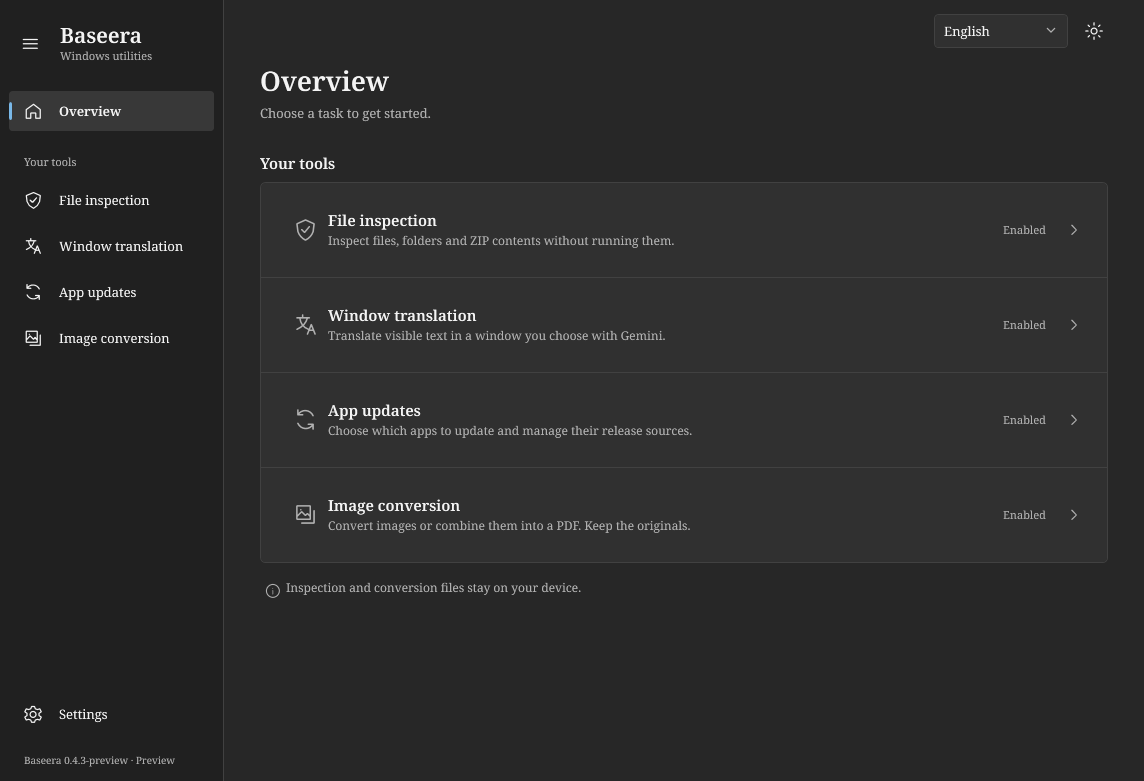
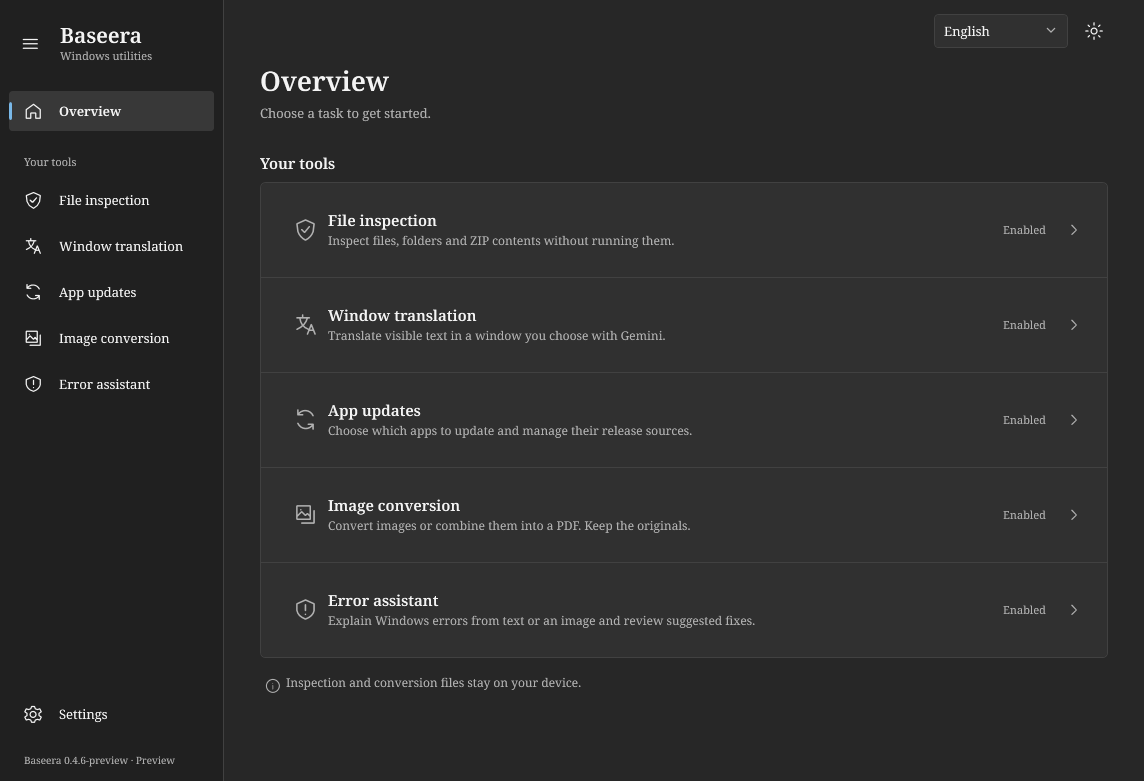
Add error assistant to Your tools

diff --git a/src/Baseera.App/MainWindow.Layout.cs b/src/Baseera.App/MainWindow.Layout.cs
@@ -19,7 +19,7 @@ public sealed partial class MainWindow
     private string providerKeyDraft = "";
     private string? modelDraft;
     private bool Arabic => Settings.Current.Language == "ar";
-    private static readonly string[] Tools = ["scan", "translate", "updates", "convert"];
+    private static readonly string[] Tools = ["scan", "translate", "updates", "convert", "errors"];
     private static Brush Resource(string key) => (Brush)Application.Current.FindResource(key);
     private static StackPanel Stack() => new() { Orientation = Orientation.Vertical };
     private FontWeight HeadingWeight => Arabic ? FontWeights.Medium : FontWeights.SemiBold;
@@ -178,6 +178,7 @@ public sealed partial class MainWindow
         {
             case "scan": ScanPage(body); break; case "translate": TranslationPage(body); break;
             case "updates": UpdatesPage(body); break; case "convert": ConvertPage(body); break;
+            case "errors": ErrorAssistantPage(body); break;
             case "settings": SettingsPage(body); break; default: Home(body); break;
         }
         if (offset > 0) _ = Dispatcher.InvokeAsync(() => scroller.ScrollToVerticalOffset(offset), System.Windows.Threading.DispatcherPriority.Loaded);
@@ -214,7 +215,7 @@ public sealed partial class MainWindow
         System.Windows.Automation.AutomationProperties.SetName(combo, I18n.T("language"));
         combo.SelectionChanged += (_, _) => { if (combo.SelectedIndex < 0) return; Settings.Current.Language = new[] { "ar", "en", "fr", "es" }[combo.SelectedIndex]; Settings.Save(); ApplyTheme(); Render(); }; return combo;
     }
-    private bool IsEnabledFeature(string key) => key switch { "scan" => Settings.Current.ScanEnabled, "translate" => Settings.Current.TranslationEnabled, "updates" => Settings.Current.UpdatesEnabled, "convert" => Settings.Current.ConvertEnabled, _ => true };
+    private bool IsEnabledFeature(string key) => key switch { "scan" => Settings.Current.ScanEnabled, "translate" => Settings.Current.TranslationEnabled, "updates" => Settings.Current.UpdatesEnabled, "convert" => Settings.Current.ConvertEnabled, "errors" => Settings.Current.ErrorAssistantEnabled, _ => true };
     private void SetFeature(string key, bool value)
     {
         switch (key)
@@ -222,6 +223,7 @@ public sealed partial class MainWindow
             case "scan": Settings.Current.ScanEnabled = value; break;
             case "translate": Settings.Current.TranslationEnabled = value; if (!value) overlay?.Close(); break;
             case "updates": Settings.Current.UpdatesEnabled = value; break; case "convert": Settings.Current.ConvertEnabled = value; break;
+            case "errors": Settings.Current.ErrorAssistantEnabled = value; if (!value) errorAssistant?.Close(); break;
         }
         if (!value) { operation?.Cancel(); if (key == "updates") automaticUpdate?.Cancel(); }
         Settings.Save(); ApplyExplorerShortcut();
@@ -246,6 +248,18 @@ public sealed partial class MainWindow
     {
         Heading(body, feature, feature + "Short"); if (IsEnabledFeature(feature)) return true;
         var panel = Stack(); panel.Children.Add(Text(I18n.T("disabledDesc"))); var settings = Action("manageTools", () => Navigate("settings"), true); settings.HorizontalAlignment = HorizontalAlignment.Left; panel.Children.Add(settings); body.Children.Add(Card(panel)); return false;
+    }
+    private void ErrorAssistantPage(StackPanel body)
+    {
+        if (!Guard(body, "errors")) return;
+        var panel = Stack();
+        panel.Children.Add(Text(I18n.T("errorAssistantIntro")));
+        var open = Action("errorsOpen", ShowErrorAssistant, true);
+        open.HorizontalAlignment = HorizontalAlignment.Left;
+        open.Margin = new Thickness(0, 10, 0, 0);
+        panel.Children.Add(open);
+        body.Children.Add(Card(panel));
+        Help(body, "errorPrivacy");
     }
     private void Home(StackPanel body)
     {
@@ -325,6 +339,12 @@ public sealed partial class MainWindow
         if (languages.Template.FindName("PART_Popup", languages) is not System.Windows.Controls.Primitives.Popup { IsOpen: true }) throw new InvalidOperationException("Language menu did not open.");
         languages.IsDropDownOpen = false; languages.SelectedIndex = Arabic ? 1 : 0; UpdateLayout();
         if (shell.FlowDirection != (Arabic ? FlowDirection.RightToLeft : FlowDirection.LeftToRight)) throw new InvalidOperationException("Language direction did not update.");
+        Navigate("home"); UpdateLayout();
+        if (Descendants(frame).OfType<Button>().Count(b => System.Windows.Automation.AutomationProperties.GetName(b) == I18n.T("errors")) != 2)
+            throw new InvalidOperationException("Error assistant is missing from Overview or Your tools navigation.");
+        Navigate("errors"); UpdateLayout();
+        if (!Descendants(frame).OfType<Button>().Any(b => System.Windows.Automation.AutomationProperties.GetName(b) == I18n.T("errorsOpen")))
+            throw new InvalidOperationException("Error assistant page has no open action.");
         Navigate("convert"); UpdateLayout(); if (!Descendants(frame).OfType<ComboBox>().Any(c => c.Items.Contains("PDF"))) throw new InvalidOperationException("Conversion formats unavailable.");
         SystemCommands.MaximizeWindow(this); await Dispatcher.InvokeAsync(() => { }, System.Windows.Threading.DispatcherPriority.ApplicationIdle);
         if (WindowState != WindowState.Maximized) throw new InvalidOperationException("Native maximize failed.");

diff --git a/src/Baseera.App/Services/I18n.cs b/src/Baseera.App/Services/I18n.cs
@@ -107,6 +107,8 @@ public static class I18n
         ["translateShort"] = ["ترجم النص الظاهر في نافذة تختارها باستخدام Gemini.", "Translate visible text in a window you choose with Gemini.", "Traduisez le texte d’une fenêtre choisie avec Gemini.", "Traduce el texto de una ventana elegida con Gemini."],
         ["updatesShort"] = ["اختر التطبيقات التي تريد تحديثها وأدر مصادر إصداراتها.", "Choose which apps to update and manage their release sources.", "Choisissez les applications à mettre à jour et leurs sources.", "Elige las aplicaciones que actualizar y sus fuentes."],
         ["convertShort"] = ["حوّل الصور أو اجمعها في PDF مع الاحتفاظ بالأصول.", "Convert images or combine them into a PDF. Keep the originals.", "Convertissez les images ou assemblez un PDF, sans modifier les originaux.", "Convierte imágenes o crea un PDF conservando los originales."],
+        ["errorsShort"] = ["فسّر أخطاء ويندوز من النص أو الصورة، وراجع خطوات الحل المقترحة.", "Explain Windows errors from text or an image and review suggested fixes.", "Expliquez les erreurs Windows à partir d’un texte ou d’une image et examinez les solutions proposées.", "Explica errores de Windows a partir de texto o imágenes y revisa las soluciones sugeridas."],
+        ["errorsOpen"] = ["فتح مساعد الأخطاء", "Open error assistant", "Ouvrir l’assistant d’erreurs", "Abrir asistente de errores"],
         ["settingsDesc"] = ["إعدادات المظهر والأدوات والتكامل مع ويندوز.", "Manage appearance, tools and Windows integration.", "Gérez l’apparence, les outils et l’intégration Windows.", "Gestiona apariencia, herramientas e integración con Windows."],
         ["appearance"] = ["المظهر واللغة", "Appearance and language", "Apparence et langue", "Apariencia e idioma"],
         ["windowsIntegration"] = ["التكامل مع ويندوز", "Windows integration", "Intégration Windows", "Integración con Windows"],
@@ -135,9 +137,10 @@ public static class I18n
         ["translate"] = ["ترجمة النوافذ", "Window translation", "Traduction des fenêtres", "Traducción de ventanas"],
         ["updates"] = ["تحديث التطبيقات", "App updates", "Mises à jour", "Actualizaciones"],
         ["convert"] = ["تحويل الصور", "Image conversion", "Conversion d’images", "Conversión de imágenes"],
+        ["errors"] = ["مساعد الأخطاء", "Error assistant", "Assistant d’erreurs", "Asistente de errores"],
         ["settings"] = ["الإعدادات", "Settings", "Paramètres", "Configuración"],
         ["welcome"] = ["مساحتك. على طريقتك.", "Your workspace. Your way.", "Votre espace. À votre façon.", "Tu espacio. A tu manera."],
-        ["intro"] = ["أربع أدوات، وتجربة واحدة هادئة. اختر ما تحتاجه فقط.", "Four tools, one quiet workspace. Choose only what you need.", "Quatre outils, un espace serein. Choisissez ce qui vous convient.", "Cuatro herramientas, un espacio tranquilo. Elige lo que necesitas."],
+        ["intro"] = ["خمس أدوات، وتجربة واحدة هادئة. اختر ما تحتاجه فقط.", "Five tools, one quiet workspace. Choose only what you need.", "Cinq outils, un espace serein. Choisissez ce qui vous convient.", "Cinco herramientas, un espacio tranquilo. Elige lo que necesitas."],
         ["setup"] = ["لنبدأ بما يناسبك", "Make yourself at home", "Installez-vous", "Hazlo tuyo"],
         ["setupDesc"] = ["فعّل أدواتك المفضلة. يمكنك تغيير كل اختيار لاحقًا.", "Enable your tools. Every choice can be changed later.", "Activez vos outils. Vous pourrez tout modifier ensuite.", "Activa tus herramientas. Puedes cambiarlo después."],
         ["scanDesc"] = ["يفحص محتويات ZIP والسكربتات وبنية الملفات التنفيذية محليًا، ويعرض أدلة الاشتباه وحدود الفحص.", "Inspect ZIP contents, scripts and executable structure locally, with evidence and coverage limits.", "Analyse locale des ZIP, scripts et exécutables, avec indices et limites de couverture.", "Analiza ZIP, scripts y ejecutables localmente, con indicios y límites de cobertura."],

diff --git a/src/Baseera.App/App.xaml.cs b/src/Baseera.App/App.xaml.cs
@@ -50,10 +50,10 @@ public partial class App : Application
                     SaveView("setup-" + language);
                 }
                 Settings.Current.Onboarded = true; Settings.Current.ScanEnabled = true; Settings.Current.TranslationEnabled = true;
-                Settings.Current.UpdatesEnabled = true; Settings.Current.ConvertEnabled = true;
+                Settings.Current.UpdatesEnabled = true; Settings.Current.ConvertEnabled = true; Settings.Current.ErrorAssistantEnabled = true;
                 foreach (string language in new[] { "en", "ar" })
                 foreach (bool dark in new[] { false, true })
-                foreach (string page in new[] { "home", "scan", "translate", "updates", "convert", "settings" })
+                foreach (string page in new[] { "home", "scan", "translate", "updates", "convert", "errors", "settings" })
                 {
                     Settings.Current.Language = language; Settings.Current.Dark = dark; window.ApplyTheme();
                     window.Navigate(page); await Dispatcher.InvokeAsync(() => { }, System.Windows.Threading.DispatcherPriority.ApplicationIdle);

diff --git a/src/Baseera.App/MainWindow.cs b/src/Baseera.App/MainWindow.cs
@@ -58,7 +58,7 @@ public sealed partial class MainWindow : Window
                     catch (Exception ex) { SetOperationStatus("selfFailed", ex.Message); }
                 }
                 ShowStartupWelcome();
-                if (launchErrorAssistant) ShowErrorAssistant();
+                if (launchErrorAssistant && Settings.Current.ErrorAssistantEnabled) ShowErrorAssistant();
                 await CheckSelfUpdate();
                 if (!Settings.Current.Onboarded) return;
                 if (Settings.Current.ScanEnabled && Settings.Current.ScanAtStartup && (File.Exists(Settings.Current.ScanPath) || Directory.Exists(Settings.Current.ScanPath)))
@@ -69,6 +69,7 @@ public sealed partial class MainWindow : Window
     }
     private void ShowErrorAssistant()
     {
+        if (!Settings.Current.ErrorAssistantEnabled) return;
         if (errorAssistant?.IsVisible == true) { errorAssistant.Activate(); return; }
         errorAssistant = new ErrorAssistantWindow(this);
         try { errorAssistant.ShowDialog(); }

diff --git a/src/Baseera.App/Icons.cs b/src/Baseera.App/Icons.cs
@@ -22,6 +22,7 @@ public static class Icons
         ["translate"] = "M3,5 L16,5 M9,2 L9,5 M6,5 Q7,14 15,17 M14,5 Q12,13 3,17 M14,22 L18,12 L22,22 M15.5,18 L20.5,18",
         ["updates"] = "M20,8 A9,9 0 0 0 4,7 M4,2 L4,7 L9,7 M4,16 A9,9 0 0 0 20,17 M15,17 L20,17 L20,22",
         ["convert"] = "M3,3 L17,3 L17,17 L3,17 Z M3,14 L8,9 L12,13 L14,11 L17,14 M7,7 L7.1,7 M8,21 L21,21 L21,8",
+        ["errors"] = "M12,2 L21,6 L21,13 Q20,19 12,22 Q4,19 3,13 L3,6 Z M12,7 L12,13 M12,17 L12,17.1",
         ["settings"] = "M10,2 L14,2 L15,5 L18,6 L21,5 L23,9 L20,11 L20,14 L23,16 L21,20 L18,19 L15,20 L14,23 L10,23 L9,20 L6,19 L3,20 L1,16 L4,14 L4,11 L1,9 L3,5 L6,6 L9,5 Z M16,12.5 A4,4 0 1 1 8,12.5 A4,4 0 1 1 16,12.5",
         ["mark"] = "M2,12 Q12,0 22,12 Q12,24 2,12 Z M16,12 A4,4 0 1 1 8,12 A4,4 0 1 1 16,12"
     };

diff --git a/src/Baseera.App/WelcomeWindow.cs b/src/Baseera.App/WelcomeWindow.cs
@@ -60,7 +60,7 @@ internal sealed class WelcomeWindow : Window
         var introduction = Text(I18n.T("welcomeIntro"), 13, true); introduction.LineHeight = 21; header.Children.Add(introduction); layout.Children.Add(header);
 
         var body = Stack(); body.Margin = new Thickness(28, 0, 28, 16);
-        var tools = Stack(); string[] keys = ["scan", "translate", "updates", "convert"];
+        var tools = Stack(); string[] keys = ["scan", "translate", "updates", "convert", "errors"];
         for (int i = 0; i < keys.Length; i++)
         {
             string key = keys[i]; var row = new Grid { Margin = new Thickness(20, 15, 20, 15) };

diff --git a/src/Baseera.App/Services/Settings.cs b/src/Baseera.App/Services/Settings.cs
@@ -17,6 +17,7 @@ public sealed class Preferences
     public bool TranslationEnabled { get; set; }
     public bool UpdatesEnabled { get; set; }
     public bool ConvertEnabled { get; set; }
+    public bool ErrorAssistantEnabled { get; set; } = true;
     public bool StartWithWindows { get; set; }
     public bool ScanAtStartup { get; set; }
     public string ScanPath { get; set; } = "";

diff --git a/README.md b/README.md
@@ -2,11 +2,11 @@
 
 A modular Windows companion with a compact desktop interface. Enable just the
 tools you need: local file inspection, window translation, selected app updates,
-and image conversion. A separate error assistant can explain copied Windows errors.
+image conversion, and an error assistant that explains copied Windows errors.
 
 [العربية](docs/README.ar.md) · [Français](docs/README.fr.md) · [Español](docs/README.es.md)
 
-[Download Windows app](https://github.com/yabs117/baseera/releases/download/v0.4.5-preview/Baseera-v0.4.5-Windows-x64.exe) · [Release notes](https://github.com/yabs117/baseera/releases/tag/v0.4.5-preview) · [Roadmap](docs/ROADMAP.md)
+[Download Windows app](https://github.com/yabs117/baseera/releases/download/v0.4.6-preview/Baseera-v0.4.6-Windows-x64.exe) · [Release notes](https://github.com/yabs117/baseera/releases/tag/v0.4.6-preview) · [Roadmap](docs/ROADMAP.md)
 
 ![Baseera overview — English, light appearance](docs/images/baseera-en.png)
 
@@ -18,7 +18,7 @@ and image conversion. A separate error assistant can explain copied Windows erro
 
 </details>
 
-**Early preview, version 0.4.5.** This is a new project, not a certified antivirus
+**Early preview, version 0.4.6.** This is a new project, not a certified antivirus
 or a claim of 100% malware detection. Read the [capability status](docs/ROADMAP.md)
 and [security scope](SECURITY.md) before relying on it.
 
@@ -28,7 +28,7 @@ and [security scope](SECURITY.md) before relying on it.
 | --- | --- |
 | File inspection | Files/folders, nested ZIPs, SHA-256, PE structure and script indicators. Reports skipped/encrypted/unsupported content explicitly. No execution or upload. |
 | Window translation | Select a visible window, send its screenshot to Gemini on request, and display translated text over the image. Esc closes the overlay. |
-| Windows error assistant | On a normal app launch, a separate dialog accepts pasted error text, an image, or a captured visible window. It uses your Gemini key to suggest diagnostic steps when you click Analyze. Reopen it with Ctrl+Shift+E while Baseera is active. |
+| Windows error assistant | Appears in Your tools on the Overview and sidebar. Its page opens a dialog for pasted error text, an image, or a captured visible window. It uses your Gemini key to suggest diagnostic steps when you click Analyze. Reopen it with Ctrl+Shift+E while Baseera is active. |
 | Page translation | Chrome/Edge extension replaces ordinary page text in place and restores originals. User-provided Gemini key and model. |
 | App updates | Opt-in WinGet updates per package, at launch and every six hours while running. Manual per-app GitHub release URLs override automatic installation and show releases for review. |
 | Baseera updates | Checks the official repository at launch and every two hours. In-app download, SHA-256 verification, same-path replacement and restart, with recovery backup. |
@@ -45,7 +45,8 @@ cloaked, helper and off-screen windows. Its Settings shortcut jumps directly to
 the translation service and focuses the missing key or model field.
 Settings are grouped by purpose; unsaved translation settings survive appearance changes.
 
-The error assistant opens separately before the main window on a normal launch. If
+The error assistant can be enabled or disabled with the other tools in Settings.
+When enabled, it also opens separately before the main window on a normal launch. If
 no Gemini key is saved, it offers a setup form first; closing it lets you keep using
 the app. The key is protected by the local Windows account and shared with window
 translation. Error text and the selected image are sent to Google only after you
@@ -55,6 +56,14 @@ not a guaranteed repair; Baseera does not run suggested commands or change Windo
 settings. The dialog does not open for Windows auto-start or file-conversion launches.
 
 ![Error assistant preview with sample error and simulated response](docs/images/error-assistant-en.png)
+
+<details>
+<summary>Error assistant in Your tools</summary>
+
+![Error assistant tool page — English](docs/images/errors-en.png)
+![Error assistant tool page — Arabic, dark appearance](docs/images/errors-ar-dark.png)
+
+</details>
 
 The app-update list shows locally resolved names, publishers, installed versions
 and icons from application files or Windows packaged-app resources. Matching is
@@ -84,7 +93,7 @@ review and never run an installer automatically.
 
 ## Run
 
-On first launch, a welcome dialog summarizes the four tools, explains translation
+On first launch, a welcome dialog summarizes the five tools, explains translation
 privacy and lets you choose the interface language and appearance. Continue to
 tool selection to enable what you need. The dialog appears once per Windows
 profile by default, including once for profiles upgrading from an older version.
@@ -103,16 +112,17 @@ Requires **Windows 10/11, x64**. The runtime is included; no separate .NET insta
 
 | Download | How to use |
 | --- | --- |
-| [Windows app (.exe)](https://github.com/yabs117/baseera/releases/download/v0.4.5-preview/Baseera-v0.4.5-Windows-x64.exe) | Save to a permanent folder and open it. This is the desktop application. |
-| [Windows ZIP with instructions](https://github.com/yabs117/baseera/releases/download/v0.4.5-preview/Baseera-v0.4.5-Windows-x64.zip) | Extract the whole ZIP, then open `Baseera.exe`. |
-| [Optional browser extension](https://github.com/yabs117/baseera/releases/download/v0.4.5-preview/Baseera-v0.4.5-Browser-Extension.zip) | Extract, read `START-HERE.html`, then load the inner `extension` folder in Chrome/Edge. |
+| [Windows app (.exe)](https://github.com/yabs117/baseera/releases/download/v0.4.6-preview/Baseera-v0.4.6-Windows-x64.exe) | Save to a permanent folder and open it. This is the desktop application. |
+| [Windows ZIP with instructions](https://github.com/yabs117/baseera/releases/download/v0.4.6-preview/Baseera-v0.4.6-Windows-x64.zip) | Extract the whole ZIP, then open `Baseera.exe`. |
+| [Optional browser extension](https://github.com/yabs117/baseera/releases/download/v0.4.6-preview/Baseera-v0.4.6-Browser-Extension.zip) | Extract, read `START-HERE.html`, then load the inner `extension` folder in Chrome/Edge. |
 
 Source ZIP downloads from GitHub are source code, not compiled applications.
 The browser extension is installed **inside the browser**. Do not double-click its
 module files. A Windows Script Host error means a source file was opened as a Windows script.
 
-Tool modules are off until selected. Startup registration and Explorer integration
-are optional settings, applied only when you save them.
+The four original desktop tools stay off until selected; the error assistant is
+enabled by default and can be turned off in Settings. Startup registration and
+Explorer integration are optional settings, applied only when you save them.
 
 ### Updating Baseera
 
@@ -164,7 +174,7 @@ Install the .NET 10 SDK on Windows. There are no third-party NuGet dependencies.
 node --test extension/test/protocol.test.js
 ```
 
-The self-contained executable is produced in `artifacts/Baseera-v0.4.5-Windows-x64/`.
+The self-contained executable is produced in `artifacts/Baseera-v0.4.6-Windows-x64/`.
 `-Smoke -Publish` also checks the packaged executable. `-Smoke` uses a separate local data directory and does not run updates or
 register Explorer hooks. It renders the actual WPF screens and tests conversion,
 PDF generation, translation-box validation, localization coverage and DPAPI storage.

diff --git a/docs/README.ar.md b/docs/README.ar.md
@@ -1,7 +1,7 @@
 # بصيرة
 
 تطبيق ويندوز تجريبي مفتوح المصدر يجمع فحص الملفات، وترجمة النوافذ، وتحديث
-التطبيقات المختارة، وتحويل الصور. الواجهة تدعم العربية RTL والإنجليزية والفرنسية والإسبانية.
+التطبيقات المختارة، وتحويل الصور، ومساعد أخطاء ويندوز. الواجهة تدعم العربية RTL والإنجليزية والفرنسية والإسبانية.
 
 ## التشغيل
 
@@ -10,7 +10,7 @@
 عرضها عند كل تشغيل، أو فتحها من «الإعدادات ← المظهر واللغة ← التعرّف على بصيرة».
 
 يتطلب Windows 10/11 بمعمارية x64. تتضمن النسخة المنشورة بيئة .NET ولا تحتاج تثبيتها منفصلة. افتح `Baseera.exe` من مجلد النسخة
-المنشورة. عند أول تشغيل تكون الميزات معطّلة، وتختار بنفسك ما تحتاجه.
+المنشورة. عند أول تشغيل تكون الأدوات الأربع الأصلية معطّلة، ومساعد الأخطاء مفعّل افتراضيًا ويمكن إيقافه من الإعدادات.
 
 للبناء من المصدر، ثبّت .NET SDK 10 ثم نفّذ من PowerShell:
 
@@ -18,15 +18,14 @@
 ./build.ps1 -Test -Publish
 ```
 
-الملف التنفيذي في `artifacts/Baseera-v0.4.5-Windows-x64/Baseera.exe`.
+الملف التنفيذي في `artifacts/Baseera-v0.4.6-Windows-x64/Baseera.exe`.
 
-حمّل [تطبيق ويندوز](https://github.com/yabs117/baseera/releases/download/v0.4.5-preview/Baseera-v0.4.5-Windows-x64.exe) مباشرة.
+حمّل [تطبيق ويندوز](https://github.com/yabs117/baseera/releases/download/v0.4.6-preview/Baseera-v0.4.6-Windows-x64.exe) مباشرة.
 إضافة المتصفح حزمة اختيارية منفصلة: اقرأ `START-HERE.html` وثبّتها من المتصفح، ولا تفتح ملفات الشيفرة بالنقر المزدوج.
 
 ## الاستخدام
 
-**مساعد أخطاء ويندوز:** تظهر نافذة مستقلة عند فتح بصيرة بالطريقة المعتادة، من دون
-تغيير القائمة الرئيسية. إن لم تحفظ مفتاح Gemini، يمكنك إضافته مع معرّف النموذج قبل
+**مساعد أخطاء ويندوز:** يظهر ضمن «أدواتك» في النظرة العامة والقائمة الجانبية، وله صفحة تفتح نافذة التحليل. تظهر النافذة أيضًا عند فتح بصيرة بالطريقة المعتادة إن كانت الأداة مفعّلة. إن لم تحفظ مفتاح Gemini، يمكنك إضافته مع معرّف النموذج قبل
 التحليل أو إغلاق النافذة ومتابعة التطبيق. الصق نص الخطأ أو صورته، واختر صورة من
 ملفاتك أو التقط نافذة ظاهرة، ثم اضغط «تحليل الخطأ». يُرسل النص والصورة المختارة إلى
 Google عند ضغط الزر فقط؛ راجع لقطة النافذة قبل الإرسال لأنها قد تحتوي بيانات خاصة.

diff --git a/docs/README.fr.md b/docs/README.fr.md
@@ -5,7 +5,7 @@ fenêtres avec Gemini, mises à jour WinGet choisies et conversion d’images/PD
 L’interface est disponible en arabe (RTL), anglais, français et espagnol.
 
 Prérequis : Windows 10/11 x64. Le runtime .NET est inclus. Pour compiler avec le SDK 10 :
-`./build.ps1 -Test -Publish`. Lancez `artifacts/Baseera-v0.4.5-Windows-x64/Baseera.exe`.
+`./build.ps1 -Test -Publish`. Lancez `artifacts/Baseera-v0.4.6-Windows-x64/Baseera.exe`.
 L’extension de navigateur est un téléchargement séparé : suivez `START-HERE.html` et chargez le dossier `extension` dans Chrome/Edge. Ne lancez pas ses fichiers source par double-clic.
 
 Activez uniquement les outils voulus lors du premier lancement. La traduction
@@ -13,7 +13,7 @@ nécessite votre clé Gemini et un modèle compatible avec les images. Elle envo
 la capture de la fenêtre sélectionnée à Google sur demande. Échap ferme la couche.
 L’extension dans `extension/` traduit le texte de la page en place et restaure l’original.
 
-Une fenêtre distincte d’assistance aux erreurs s’ouvre au démarrage normal. Collez
+L’assistant d’erreurs figure dans « Vos outils », sur l’accueil et dans la barre latérale. Sa page ouvre la fenêtre d’analyse ; lorsqu’il est activé, elle s’ouvre aussi au démarrage normal. Vous pouvez désactiver cet outil dans les paramètres. Collez
 un message ou une image, choisissez un fichier image ou capturez une fenêtre visible,
 puis demandez une analyse avec votre clé Gemini. Vous pouvez fermer l’assistant sans
 configurer de clé et le rouvrir avec Ctrl+Shift+E depuis Baseera. Le texte et l’image

diff --git a/docs/README.es.md b/docs/README.es.md
@@ -5,7 +5,7 @@ ventanas con Gemini, actualizaciones WinGet elegidas y conversión de imágenes/
 Interfaz en árabe (RTL), inglés, francés y español.
 
 Requisitos: Windows 10/11 x64. El runtime .NET está incluido. Para compilar con SDK 10:
-`./build.ps1 -Test -Publish`. Abre `artifacts/Baseera-v0.4.5-Windows-x64/Baseera.exe`.
+`./build.ps1 -Test -Publish`. Abre `artifacts/Baseera-v0.4.6-Windows-x64/Baseera.exe`.
 La extensión del navegador se descarga por separado: sigue `START-HERE.html` y carga la carpeta `extension` en Chrome/Edge. No abras sus archivos fuente con doble clic.
 
 Activa solo las herramientas que necesitas. La traducción requiere tu clave Gemini
@@ -13,7 +13,7 @@ y un modelo compatible con imágenes. Envía la captura de la ventana elegida a 
 cuando lo solicitas. Esc cierra la capa de traducción. La extensión en `extension/`
 reemplaza el texto de la página y permite restaurar el original.
 
-Una ventana independiente de ayuda con errores se abre al iniciar Baseera normalmente.
+El asistente de errores aparece en «Tus herramientas» de la página principal y la barra lateral. Su página abre la ventana de análisis; si está activado, también se abre al iniciar Baseera normalmente. Puedes desactivarlo en Configuración.
 Pega el mensaje o una imagen, elige un archivo de imagen o captura una ventana visible
 y solicita un análisis con tu clave Gemini. Puedes cerrar la ventana sin configurar
 una clave y volver a abrirla con Ctrl+Shift+E desde Baseera. El texto y la imagen
